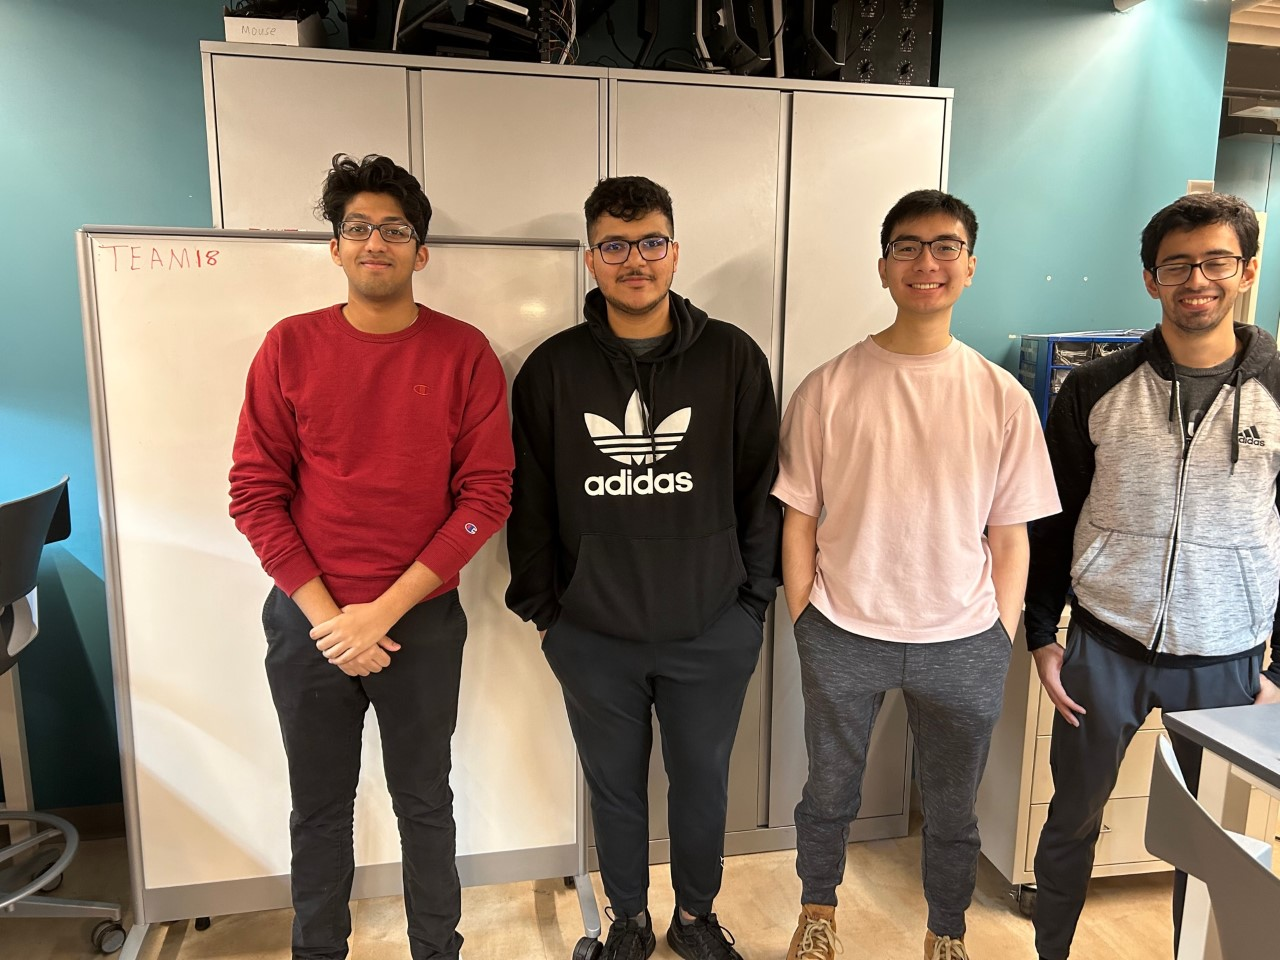
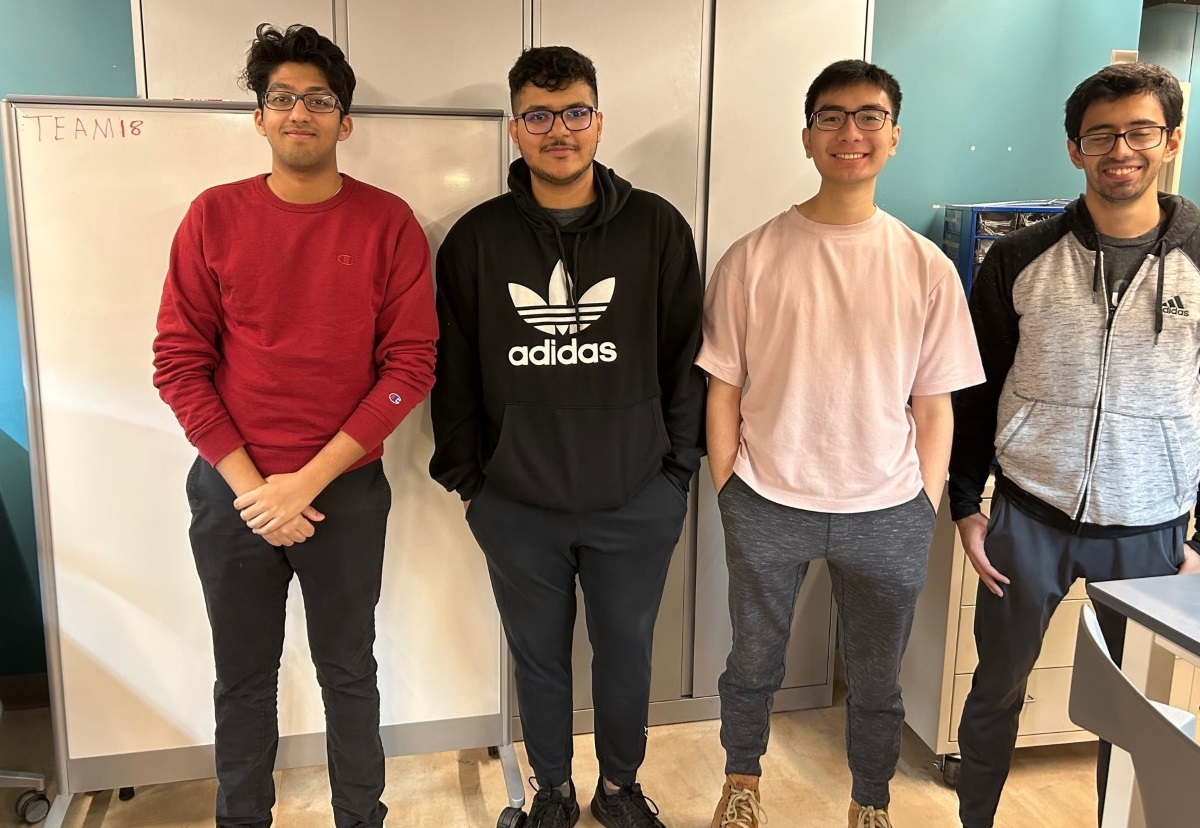
changed slideshow

diff --git a/website/slideshow.html b/website/slideshow.html
@@ -3,8 +3,9 @@
 <section class="container">
     <div class="camera_wrap" style="display: block; height: 400px">
     <div data-src="img/slideshow/477grp18.jpg"></div>
-	<div data-src="img/slideshow/PurdueBelltower.jpg"></div>
-	<!-- <div data-src="img/slideshow/HovdeHallofAdministration.jpg"></div>
+    <div data-src="img/slideshow/team_at_work.jpg"></div>
+	<!--<div data-src="img/slideshow/PurdueBelltower.jpg"></div>
+	 <div data-src="img/slideshow/HovdeHallofAdministration.jpg"></div>
 	<div data-src="img/slideshow/NeilArmstrong.jpg"></div> -->
     </div>
 </section>
